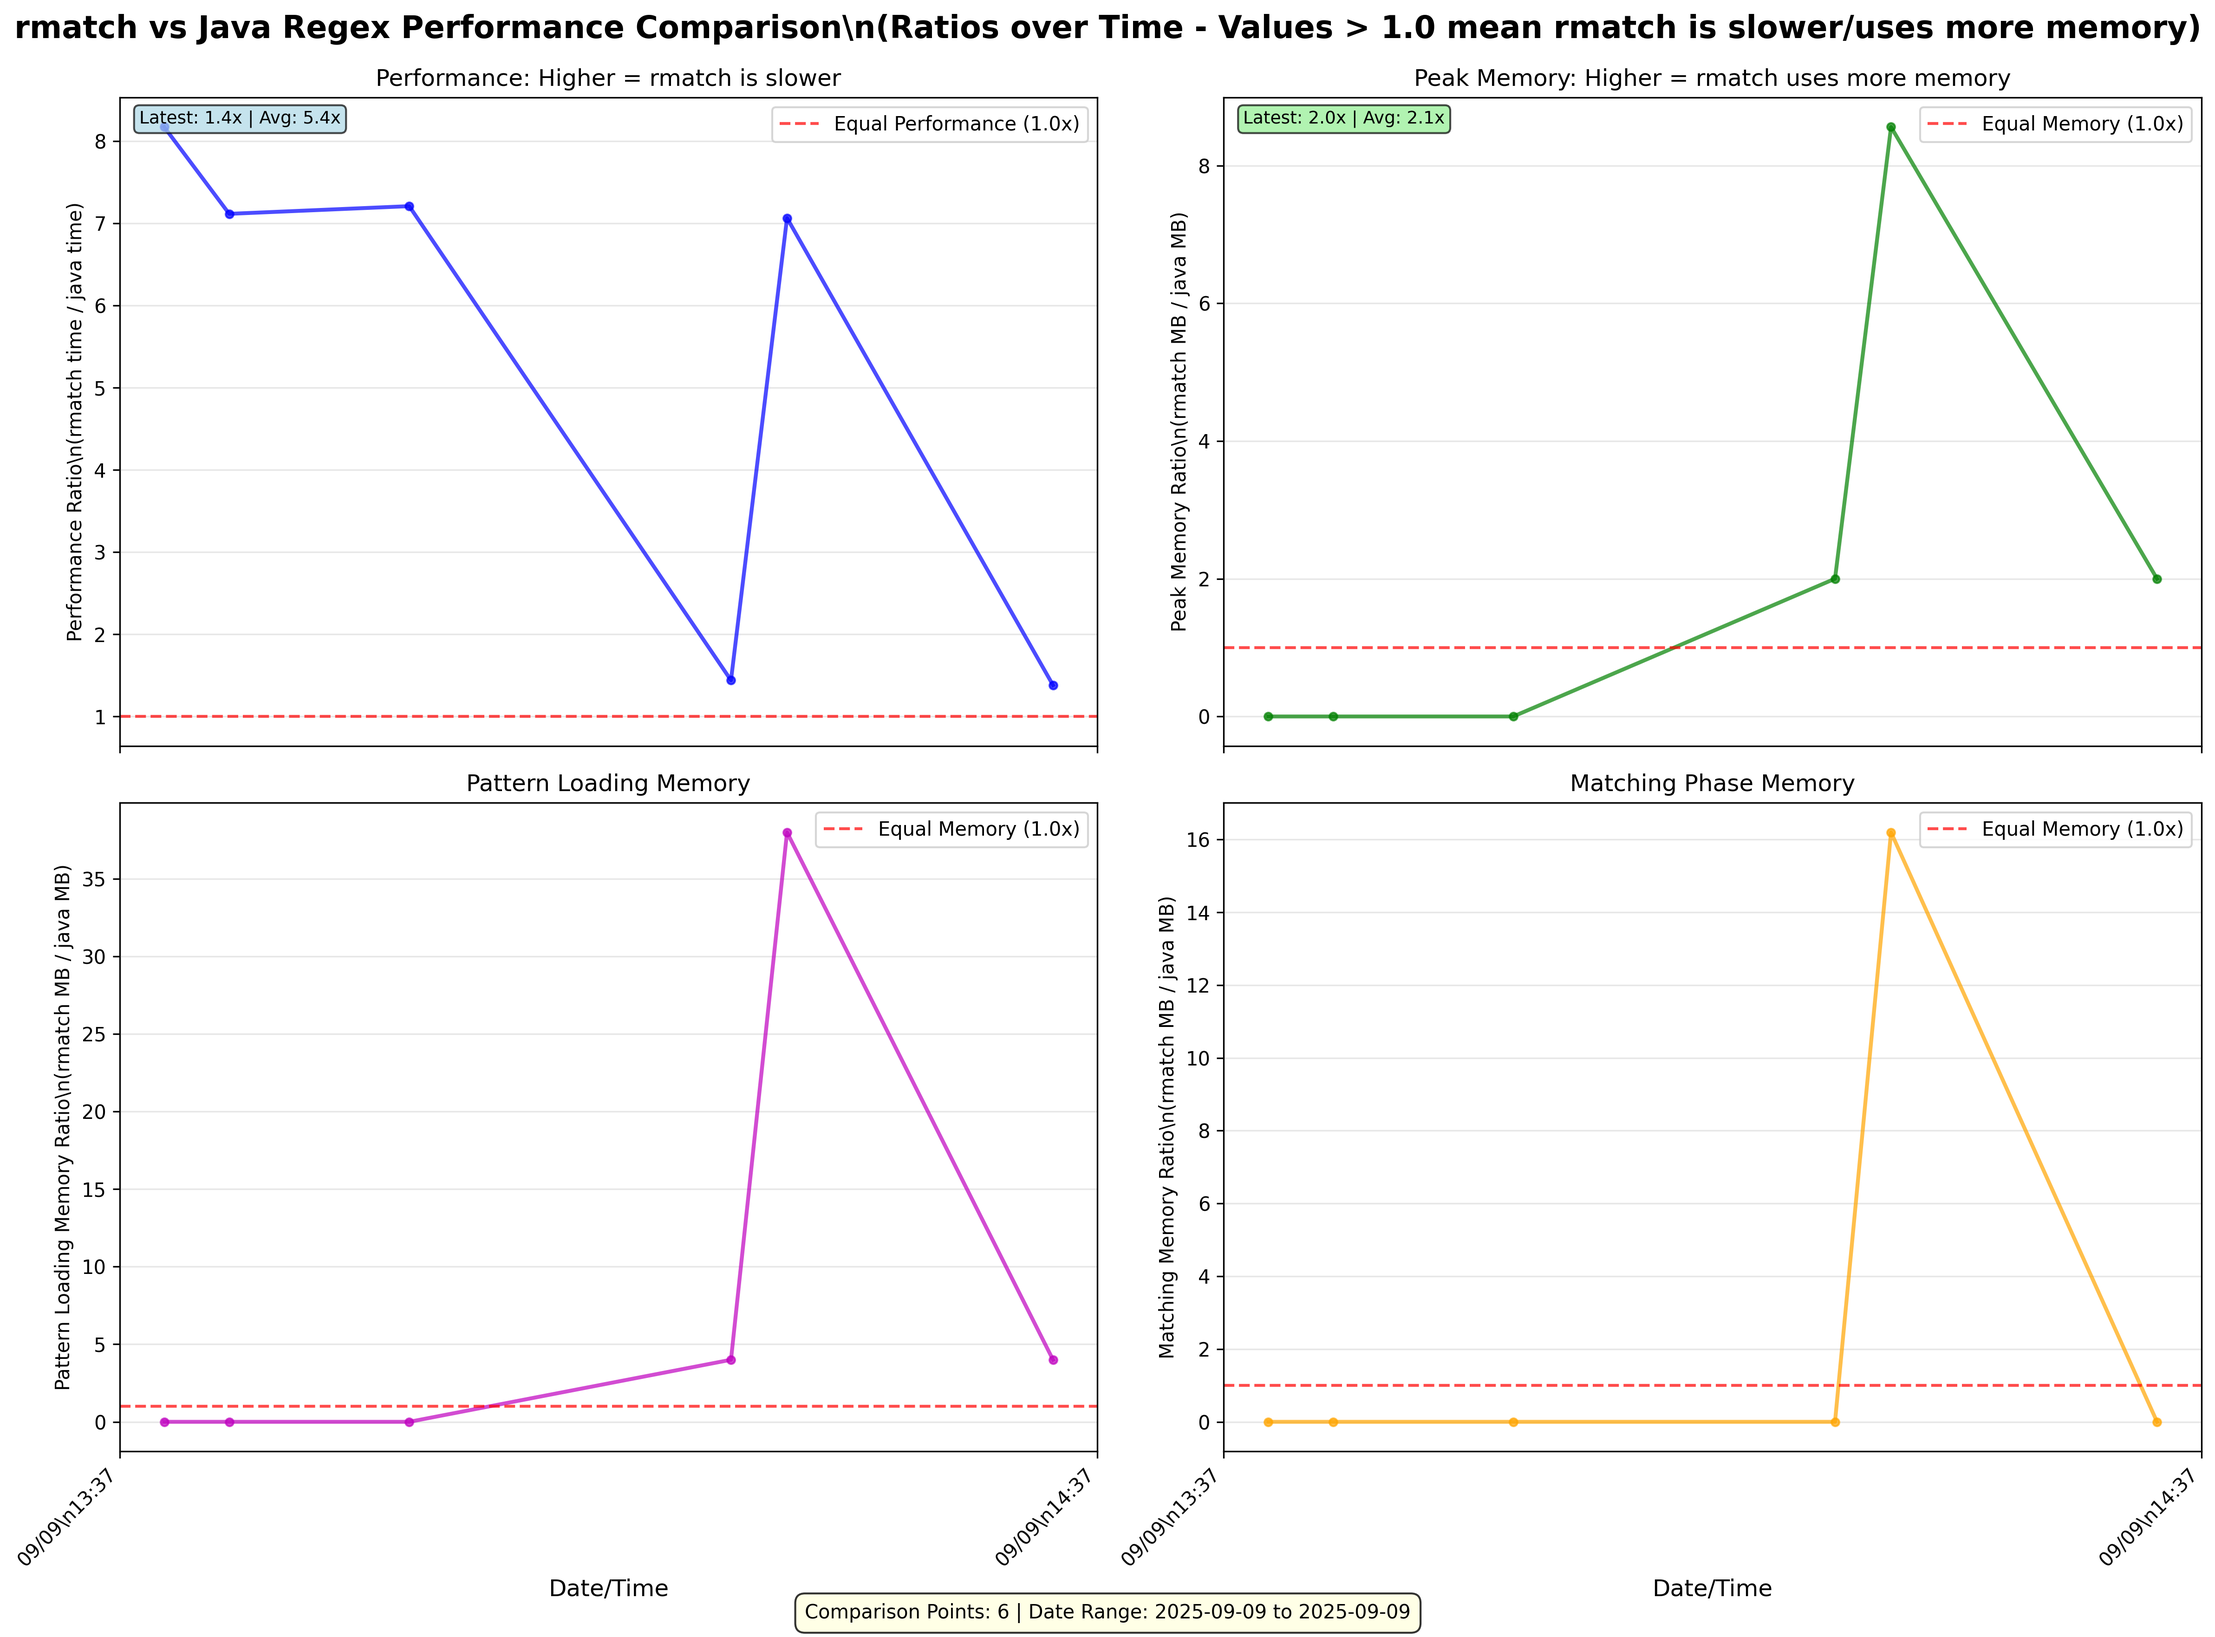
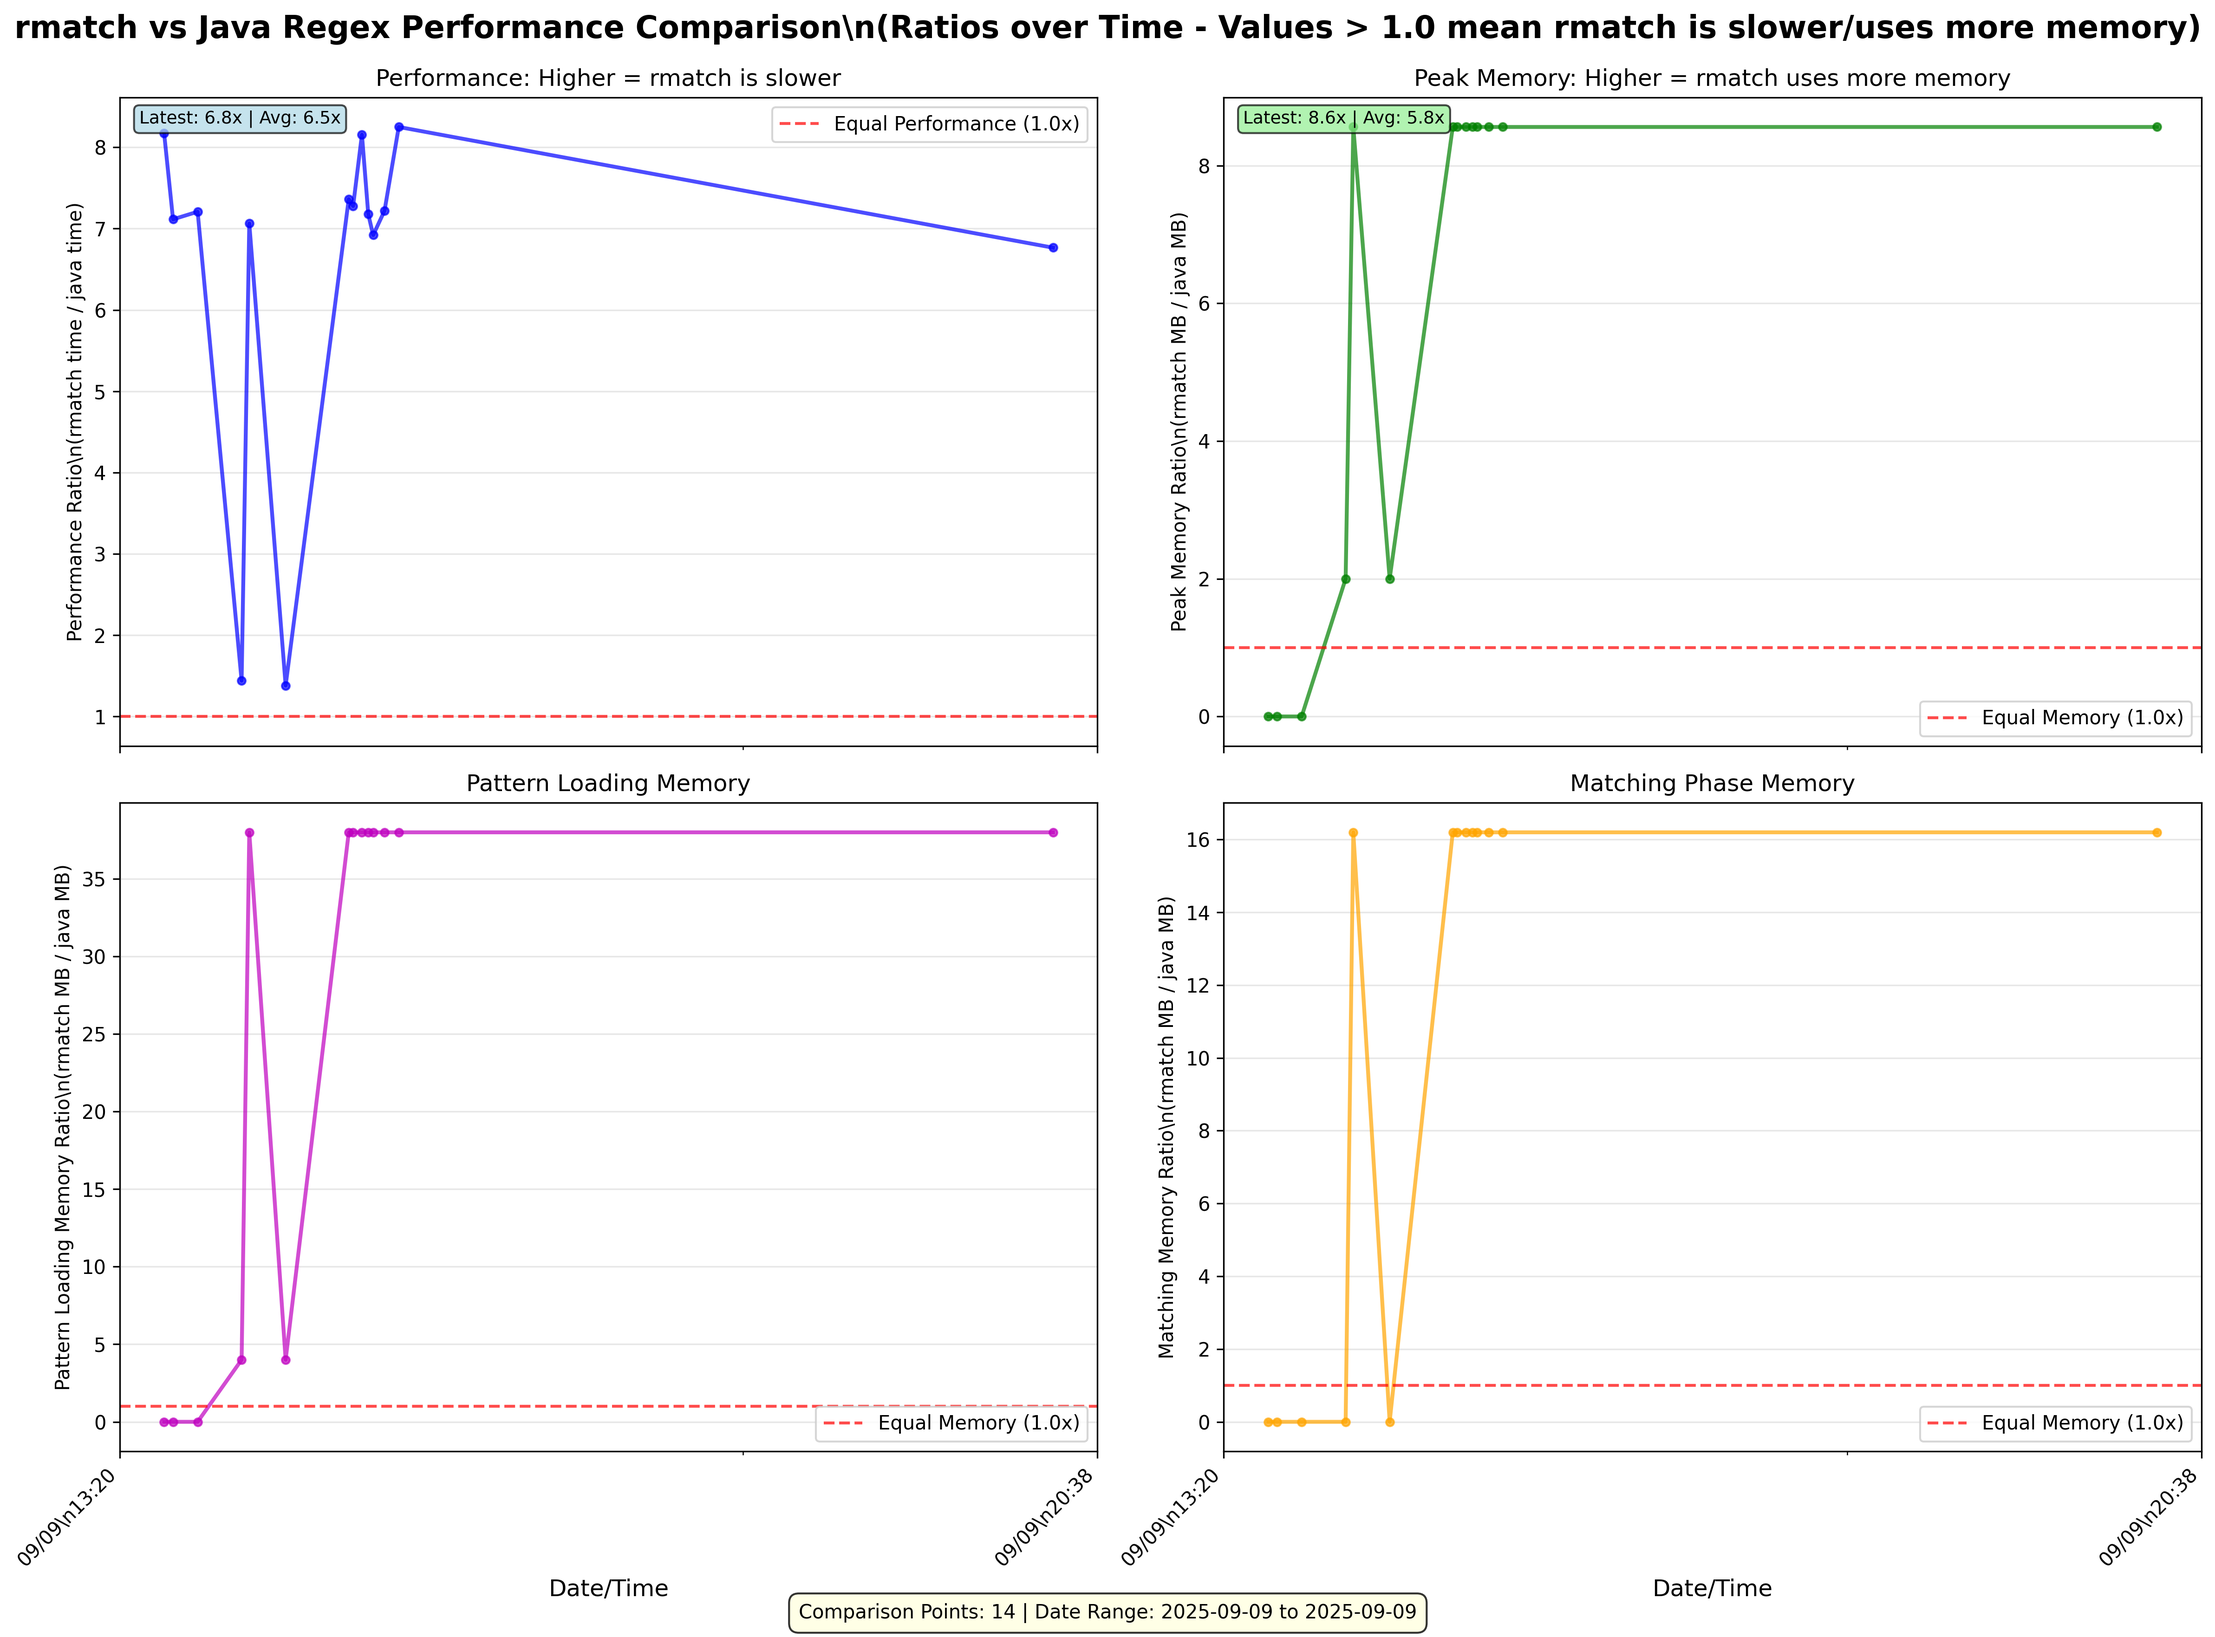
Fixing thing

diff --git a/README.md b/README.md
@@ -5,12 +5,12 @@ rmatch
 
 | Metric | rmatch | Java Regex | Ratio (rmatch/java) |
 |--------|--------|------------|---------------------|
-| **1000 patterns** | 2.2s | 1.6s | 1.4x slower |
-| **Peak Memory** | 30MB | 15MB | 2.0x more memory |
-| **Pattern Loading** | 4MB | 1MB | 4.0x more memory |
-| **Matching Phase** | 12MB | 0MB | 0.0x less memory |
+| **10000 patterns** | 20.4s | 3.0s | 6.8x slower |
+| **Peak Memory** | 214MB | 25MB | 8.6x more memory |
+| **Pattern Loading** | 38MB | 1MB | 38.0x more memory |
+| **Matching Phase** | 162MB | 10MB | 16.2x more memory |
 
-*Latest benchmark comparison between rmatch and native Java regex (java.util.regex.Pattern) on 1000 regex patterns against Wuthering Heights corpus. Updated: 2025-09-09 16:40 UTC*
+*Latest benchmark comparison between rmatch and native Java regex (java.util.regex.Pattern) on 10000 regex patterns against Wuthering Heights corpus. Updated: 2025-09-09 22:20 UTC*
 
 ---
 
